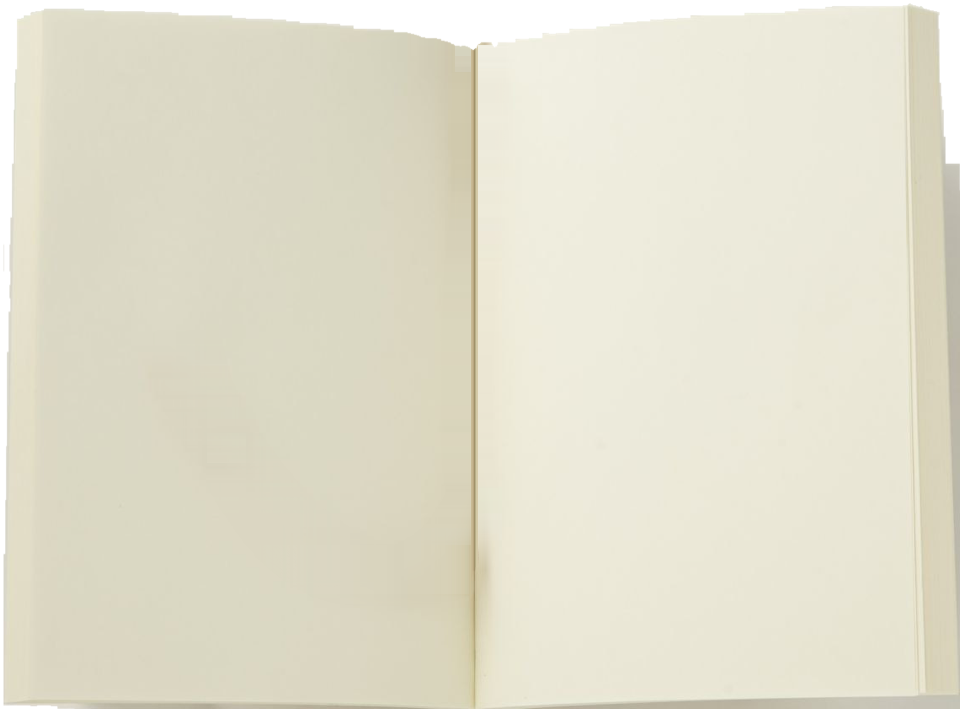
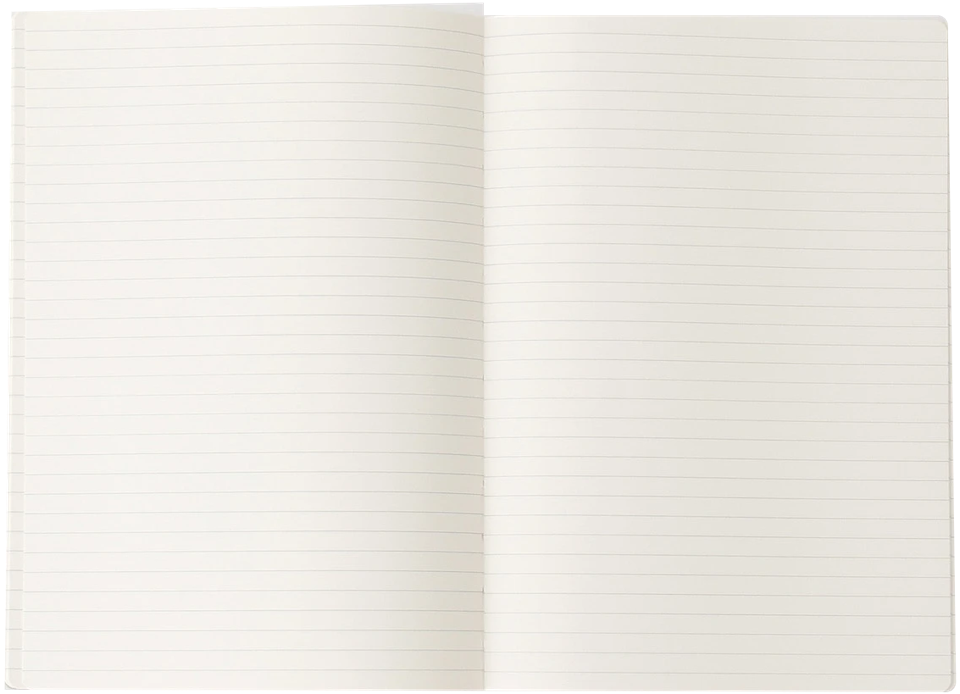
Notebook: ruled pages (MUJI notebook, cut out with straight edges + rounded corners)

diff --git a/index.html b/index.html
@@ -11,7 +11,7 @@
 <link rel="preconnect" href="https://fonts.googleapis.com" />
 <link rel="preconnect" href="https://fonts.gstatic.com" crossorigin />
 <link href="https://fonts.googleapis.com/css2?family=Fraunces:opsz,wght,SOFT@9..144,300..800,50&family=Inter+Tight:wght@400;500;600&family=Martian+Mono:wght@400;500;600&family=Allura&display=swap" rel="stylesheet" />
-<link rel="stylesheet" href="styles/main.css?v=20261110i" />
+<link rel="stylesheet" href="styles/main.css?v=20261110j" />
 <link rel="icon" type="image/png" href="assets/logo-hy.png" />
 
 <!-- JSON-LD -->
@@ -187,6 +187,6 @@
 <script src="vendor/ScrollTrigger.min.js"></script>
 <script src="vendor/lenis.min.js"></script>
 
-<script type="module" src="scripts/app.js?v=20261110i"></script>
+<script type="module" src="scripts/app.js?v=20261110j"></script>
 </body>
 </html>

diff --git a/scripts/content.js b/scripts/content.js
@@ -45,7 +45,7 @@ export const about = {
 // note: optional line in your words, shown under the desk on click. Leave "" to show nothing.
 export const kit = [
   { id: "notebook", label: "NOTEBOOK", name: "Plain notebook", sound: "page",
-    img: "assets/objects/notebook.png", w: 960, h: 709, // transparent cut-out
+    img: "assets/objects/notebook.png", w: 960, h: 694, // transparent cut-out (ruled MUJI notebook)
     alt: "Open cream notebook with a red ribbon bookmark",
     ink: { name: meta.name, lines: [meta.title, meta.tagline] }, // written on the pages
     desk: { x: 19, y: 12, w: 58, r: -10 },

diff --git a/scripts/app.js b/scripts/app.js
@@ -1,8 +1,8 @@
 // app.js — motion orchestration, desk interactions, section rendering.
-import { play, playFile, startMusic, stopMusic, isMuted, setMuted } from "./sound.js?v=20261110i";
+import { play, playFile, startMusic, stopMusic, isMuted, setMuted } from "./sound.js?v=20261110j";
 import {
   meta, about, kit, tools, experience, projects,
-} from "./content.js?v=20261110i";
+} from "./content.js?v=20261110j";
 
 const { gsap, ScrollTrigger, Lenis } = window;
 gsap.registerPlugin(ScrollTrigger);
